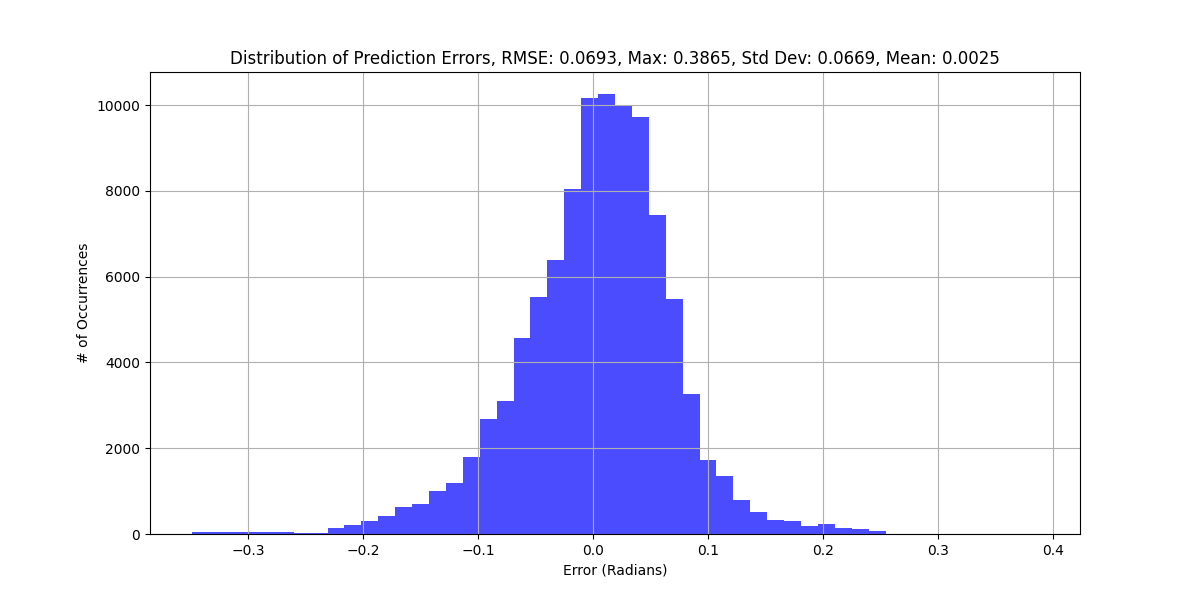
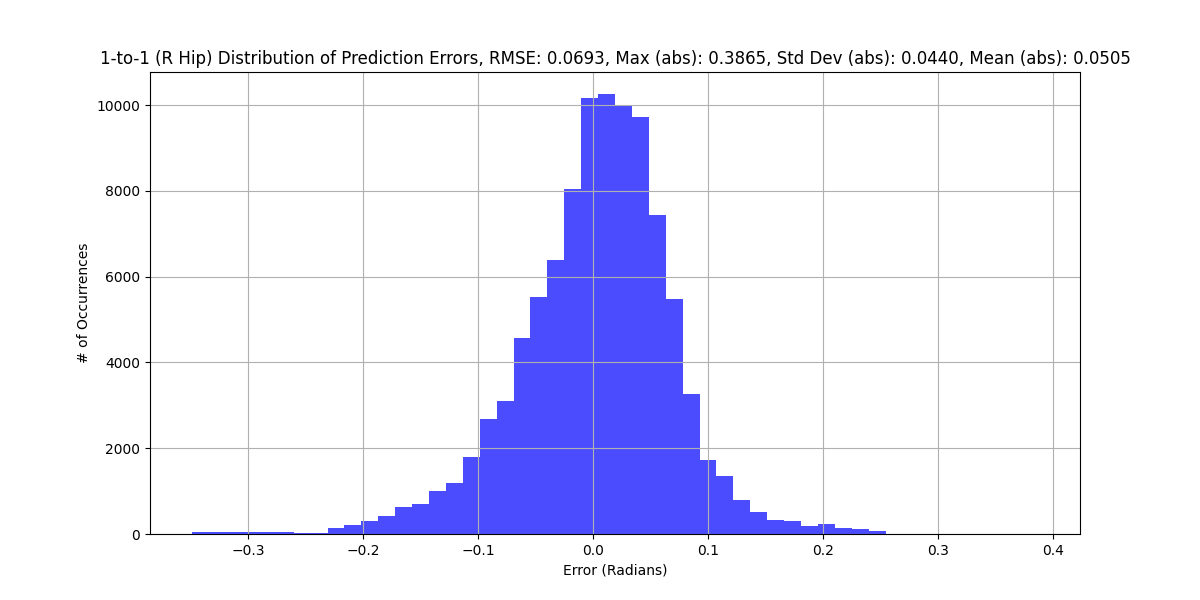
Updated validation metrics for 1to1

Changed region(s): [[0.0925, 0.06, 0.9558, 0.12]]

diff --git a/lstm_singleJoint/validation.py b/lstm_singleJoint/validation.py
@@ -46,7 +46,7 @@ class JointModel(nn.Module):
 
 # Load model
 model = JointModel()
-model.load_state_dict(torch.load('trial5/j13/lstm_model_epoch144.pth'))
+model.load_state_dict(torch.load('trial6/lstm_model_epoch70.pth'))
 model.eval()
 
 # Validation
@@ -71,7 +71,7 @@ plt.figure(figsize=(12, 6))
 plt.hist(errors, bins=50, alpha=0.7, color='blue')
 plt.xlabel('Error (Radians)')
 plt.ylabel('# of Occurrences')
-plt.title(f'Distribution of Prediction Errors, RMSE: {valid_rmse:.4f}, Max: {errors.max():.4f}, Std Dev: {errors.std():.4f}, Mean: {errors.mean():.4f}')
+plt.title(f'1-to-1 (R Hip) Distribution of Prediction Errors, RMSE: {valid_rmse:.4f}, Max (abs): {abs(errors).max():.4f}, Std Dev (abs): {abs(errors).std():.4f}, Mean (abs): {abs(errors).mean():.4f}')
 plt.grid(True)
 plt.show()
 
